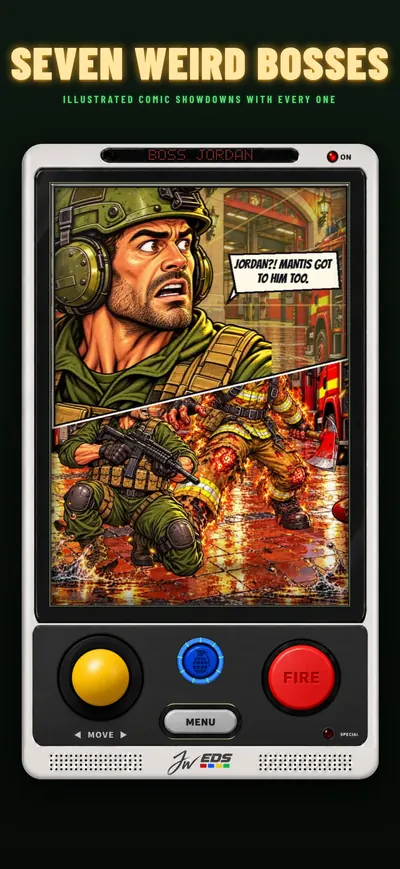
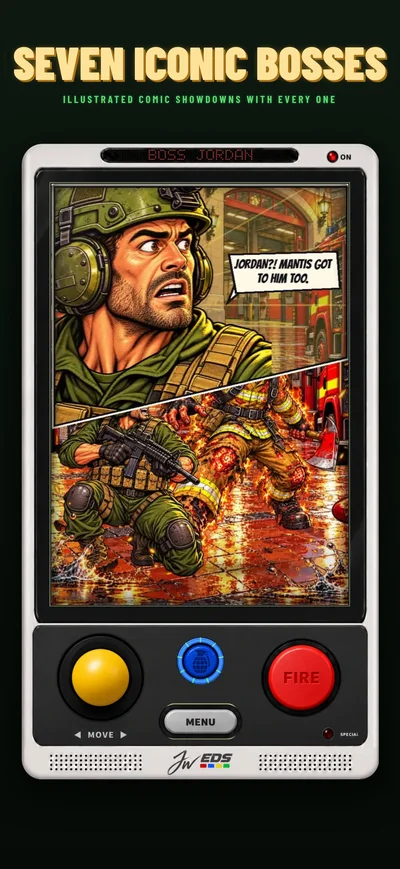
Listing and site wording: iconic bosses; Play title 'Zombie Smash: Dr Mantis' and short description; recaptioned boss screenshot
Claude-Session: https://claude.ai/code/session_016h9AER248gGBxUzMNLfo7H

Changed region(s): [[0.0, 0.0311, 0.99, 0.1243]]

diff --git a/site/index.html b/site/index.html
@@ -4,8 +4,8 @@
 <meta charset="utf-8">
 <meta name="viewport" content="width=device-width,initial-scale=1">
 <title>Zombie Smash – a retro zombie arcade shooter for your phone</title>
-<meta name="description" content="Seven weird bosses. One line to hold. Zero ads. Zombie Smash is a free retro arcade shooter with seven boss fights, seven arenas and 24 console skins.">
-<meta property="og:title" content="Zombie Smash – a retro zombie arcade shooter for your phone"><meta property="og:description" content="Seven weird bosses. One line to hold. Zero ads. Zombie Smash is a free retro arcade shooter with seven boss fights, seven arenas and 24 console skins."><meta property="og:type" content="website">
+<meta name="description" content="Seven iconic bosses. One line to hold. Zero ads. Zombie Smash is a free retro arcade shooter with seven boss fights, seven arenas and 24 console skins.">
+<meta property="og:title" content="Zombie Smash – a retro zombie arcade shooter for your phone"><meta property="og:description" content="Seven iconic bosses. One line to hold. Zero ads. Zombie Smash is a free retro arcade shooter with seven boss fights, seven arenas and 24 console skins."><meta property="og:type" content="website">
 <meta property="og:image" content="https://zc2.quest/img/og.jpg"><meta name="twitter:card" content="summary_large_image">
 <meta name="theme-color" content="#0b120d">
 <link rel="icon" href="favicon.png"><link rel="apple-touch-icon" href="apple-touch-icon.png">
@@ -21,7 +21,7 @@
 <div class="hero">
   <img class="art" src="img/hero.webp" alt="Zombie Smash key art: the soldier, Disco Man, the firefighter, the brawler and Dr Mantis facing the horde" width="1600" height="686">
   <h1>Hold the line.</h1>
-  <p class="tag">Seven weird bosses. One line to hold. Zero ads. A free retro arcade shooter that fits in your pocket.</p>
+  <p class="tag">Seven iconic bosses. One line to hold. Zero ads. A free retro arcade shooter that fits in your pocket.</p>
   <div class="stores">
     <a class="store" data-store="appStore" aria-label="Download Zombie Smash on the App Store"><svg viewBox="0 0 32 32" aria-hidden="true"><rect width="32" height="32" rx="7" fill="#1d9bf0"/><path d="M9 22l7-13 7 13M11.5 18h9M9 22h14" stroke="#fff" stroke-width="2.4" fill="none" stroke-linecap="round" stroke-linejoin="round"/></svg><span><small>Download on the</small><b>App Store</b></span><span class="soon">COMING SOON</span></a>
     <a class="store" data-store="googlePlay" aria-label="Get Zombie Smash on Google Play"><svg viewBox="0 0 32 32" aria-hidden="true"><path d="M5 3l15 13L5 29z" fill="#34a853"/><path d="M5 3l15 13 5-5z" fill="#fbbc04"/><path d="M5 29l15-13 5 5z" fill="#ea4335"/><path d="M20 16l5-5 4 5-4 5z" fill="#4285f4"/></svg><span><small>Get it on</small><b>Google Play</b></span><span class="soon">COMING SOON</span></a>
